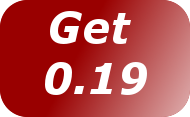
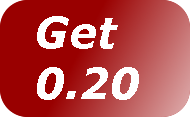
v0.20

Changed region(s): [[0.1842, 0.5128, 0.7895, 0.8718], [0.1842, 0.0769, 0.7105, 0.4359]]

diff --git a/src/site/resources/SampleCodeNarcHtmlReport.html b/src/site/resources/SampleCodeNarcHtmlReport.html
@@ -155,4 +155,4 @@ th {
 
 em, .em {
     font-weight: bold;
-}</style></head><body><img class='logo' src='http://codenarc.sourceforge.net/images/codenarc-logo.png' alt='CodeNarc' align='right'/><h1>CodeNarc Report</h1><div class='metadata'><table><tr><td class='em'>Report title:</td><td>Sample Project</td></tr><tr><td class='em'>Date:</td><td>Jul 14, 2013 4:17:00 PM</td></tr><tr><td class='em'>Generated with:</td><td><a href='http://www.codenarc.org'>CodeNarc v0.19</a></td></tr></table></div><div class='summary'><h2>Summary by Package</h2><table><tr class='tableHeader'><th>Package</th><th>Total Files</th><th>Files with Violations</th><th>Priority 1</th><th>Priority 2</th><th>Priority 3</th></tr><tr><td class='allPackages'>All Packages</td><td class='number'>7</td><td class='number'>5</td><td class='priority1'>-</td><td class='priority2'>10</td><td class='priority3'>3</td></tr><tr><td><a href='#org/codenarc/sample/domain'>org/codenarc/sample/domain</a></td><td class='number'>2</td><td class='number'>1</td><td class='priority1'>-</td><td class='priority2'>2</td><td class='priority3'>2</td></tr><tr><td><a href='#org/codenarc/sample/other'>org/codenarc/sample/other</a></td><td class='number'>1</td><td class='number'>1</td><td class='priority1'>-</td><td class='priority2'>1</td><td class='priority3'>-</td></tr><tr><td><a href='#org/codenarc/sample/service'>org/codenarc/sample/service</a></td><td class='number'>4</td><td class='number'>3</td><td class='priority1'>-</td><td class='priority2'>7</td><td class='priority3'>1</td></tr></table></div><div class='summary'><a name='org/codenarc/sample/domain'> </a><h2 class='packageHeader'>Package: org.codenarc.sample.domain</h2></div><div class='summary'><h3 class='fileHeader'>&#x27A5;&nbsp;SampleDomain.groovy</h3><table border='1'><tr class='tableHeader'><th>Rule Name</th><th>Priority</th><th>Line #</th><th>Source Line / Message</th></tr><tr><td><a href='#EmptyIfStatement'>EmptyIfStatement</a></td><td class='priority2'>2</td><td class='number'>20</td><td><p class='violationInfo'><span class='violationInfoPrefix'>[SRC]</span><span class='sourceCode'>if (name) {</span></p><p class='violationInfo'><span class='violationInfoPrefix'>[MSG]</span><span class='violationMessage'>The if statement is empty</span></p></td></tr><tr><td><a href='#EmptyElseBlock'>EmptyElseBlock</a></td><td class='priority2'>2</td><td class='number'>23</td><td><p class='violationInfo'><span class='violationInfoPrefix'>[SRC]</span><span class='sourceCode'>else {</span></p><p class='violationInfo'><span class='violationInfoPrefix'>[MSG]</span><span class='violationMessage'>The else block is empty</span></p></td></tr><tr><td><a href='#ImportFromSamePackage'>ImportFromSamePackage</a></td><td class='priority3'>3</td><td class='number'>3</td><td><p class='violationInfo'><span class='violationInfoPrefix'>[SRC]</span><span class='sourceCode'>import org.codenarc.sample.domain.OtherDomain</span></p></td></tr><tr><td><a href='#DuplicateImport'>DuplicateImport</a></td><td class='priority3'>3</td><td class='number'>5</td><td><p class='violationInfo'><span class='violationInfoPrefix'>[SRC]</span><span class='sourceCode'>import org.codenarc.sample.other.Other</span></p></td></tr></table></div><div class='summary'><a name='org/codenarc/sample/other'> </a><h2 class='packageHeader'>Package: org.codenarc.sample.other</h2></div><div class='summary'><h3 class='fileHeader'>&#x27A5;&nbsp;Other.groovy</h3><table border='1'><tr class='tableHeader'><th>Rule Name</th><th>Priority</th><th>Line #</th><th>Source Line / Message</th></tr><tr><td><a href='#EmptyClass'>EmptyClass</a></td><td class='priority2'>2</td><td class='number'>6</td><td><p class='violationInfo'><span class='violationInfoPrefix'>[SRC]</span><span class='sourceCode'>class Other {</span></p><p class='violationInfo'><span class='violationInfoPrefix'>[MSG]</span><span class='violationMessage'>Class 'Other' is empty (has no methods, fields or properties). Why would you need a class like this?</span></p></td></tr></table></div><div class='summary'><a name='org/codenarc/sample/service'> </a><h2 class='packageHeader'>Package: org.codenarc.sample.service</h2></div><div class='summary'><h3 class='fileHeader'>&#x27A5;&nbsp;NewService.groovy</h3><table border='1'><tr class='tableHeader'><th>Rule Name</th><th>Priority</th><th>Line #</th><th>Source Line / Message</th></tr><tr><td><a href='#EmptyForStatement'>EmptyForStatement</a></td><td class='priority2'>2</td><td class='number'>12</td><td><p class='violationInfo'><span class='violationInfoPrefix'>[SRC]</span><span class='sourceCode'>for(int i=0; i &lt; values.size(); i++) {</span></p><p class='violationInfo'><span class='violationInfoPrefix'>[MSG]</span><span class='violationMessage'>The for statement is empty</span></p></td></tr><tr><td><a href='#EmptyWhileStatement'>EmptyWhileStatement</a></td><td class='priority2'>2</td><td class='number'>18</td><td><p class='violationInfo'><span class='violationInfoPrefix'>[SRC]</span><span class='sourceCode'>while (!values.empty) {</span></p><p class='violationInfo'><span class='violationInfoPrefix'>[MSG]</span><span class='violationMessage'>The while statement is empty</span></p></td></tr></table></div><div class='summary'><h3 class='fileHeader'>&#x27A5;&nbsp;OtherService.groovy</h3><table border='1'><tr class='tableHeader'><th>Rule Name</th><th>Priority</th><th>Line #</th><th>Source Line / Message</th></tr><tr><td><a href='#EmptyTryBlock'>EmptyTryBlock</a></td><td class='priority2'>2</td><td class='number'>10</td><td><p class='violationInfo'><span class='violationInfoPrefix'>[SRC]</span><span class='sourceCode'>try {</span></p><p class='violationInfo'><span class='violationInfoPrefix'>[MSG]</span><span class='violationMessage'>The try block is empty</span></p></td></tr><tr><td><a href='#EmptyFinallyBlock'>EmptyFinallyBlock</a></td><td class='priority2'>2</td><td class='number'>13</td><td><p class='violationInfo'><span class='violationInfoPrefix'>[SRC]</span><span class='sourceCode'>finally {</span></p><p class='violationInfo'><span class='violationInfoPrefix'>[MSG]</span><span class='violationMessage'>The finally block is empty</span></p></td></tr><tr><td><a href='#ReturnFromFinallyBlock'>ReturnFromFinallyBlock</a></td><td class='priority2'>2</td><td class='number'>24</td><td><p class='violationInfo'><span class='violationInfoPrefix'>[SRC]</span><span class='sourceCode'>return</span></p><p class='violationInfo'><span class='violationInfoPrefix'>[MSG]</span><span class='violationMessage'>finally statements cannot return a value</span></p></td></tr></table></div><div class='summary'><h3 class='fileHeader'>&#x27A5;&nbsp;SampleService.groovy</h3><table border='1'><tr class='tableHeader'><th>Rule Name</th><th>Priority</th><th>Line #</th><th>Source Line / Message</th></tr><tr><td><a href='#EmptyCatchBlock'>EmptyCatchBlock</a></td><td class='priority2'>2</td><td class='number'>19</td><td><p class='violationInfo'><span class='violationInfoPrefix'>[SRC]</span><span class='sourceCode'>} catch(Throwable t) {</span></p><p class='violationInfo'><span class='violationInfoPrefix'>[MSG]</span><span class='violationMessage'>The catch block is empty</span></p></td></tr><tr><td><a href='#ThrowExceptionFromFinallyBlock'>ThrowExceptionFromFinallyBlock</a></td><td class='priority2'>2</td><td class='number'>30</td><td><p class='violationInfo'><span class='violationInfoPrefix'>[SRC]</span><span class='sourceCode'>throw new Exception('bad stuff')</span></p><p class='violationInfo'><span class='violationInfoPrefix'>[MSG]</span><span class='violationMessage'>Throwing an exception from a finally block can hide an underlying error</span></p></td></tr><tr><td><a href='#UnusedImport'>UnusedImport</a></td><td class='priority3'>3</td><td class='number'>3</td><td><p class='violationInfo'><span class='violationInfoPrefix'>[SRC]</span><span class='sourceCode'>import org.codenarc.sample.domain.SampleDomain</span></p><p class='violationInfo'><span class='violationInfoPrefix'>[MSG]</span><span class='violationMessage'>The [org.codenarc.sample.domain.SampleDomain] import is never referenced</span></p></td></tr></table></div><div class='summary'><h2>Rule Descriptions</h2><table border='1'><tr class='tableHeader'><th class='ruleDescriptions'>#</th><th class='ruleDescriptions'>Rule Name</th><th class='ruleDescriptions'>Description</th></tr><tr class='ruleDescriptions'><td><a name='AssertWithinFinallyBlock'></a><span class='ruleIndex'>1</span></td><td class='ruleName priority2'>AssertWithinFinallyBlock</td><td>Checks for <em>assert</em> statements within a <em>finally</em> block. An <em>assert</em> can throw an exception, hiding the original exception, if there is one.</td></tr><tr class='ruleDescriptions'><td><a name='AssignmentInConditional'></a><span class='ruleIndex'>2</span></td><td class='ruleName priority2'>AssignmentInConditional</td><td>An assignment operator (=) was used in a conditional test. This is usually a typo, and the comparison operator (==) was intended.</td></tr><tr class='ruleDescriptions'><td><a name='BigDecimalInstantiation'></a><span class='ruleIndex'>3</span></td><td class='ruleName priority2'>BigDecimalInstantiation</td><td>Checks for calls to the <em>BigDecimal</em> constructors that take a <em>double</em> parameter, which may result in an unexpected <em>BigDecimal</em> value.</td></tr><tr class='ruleDescriptions'><td><a name='BitwiseOperatorInConditional'></a><span class='ruleIndex'>4</span></td><td class='ruleName priority2'>BitwiseOperatorInConditional</td><td>Checks for bitwise operations in conditionals, if you need to do a bitwise operation then it is best practive to extract a temp variable.</td></tr><tr class='ruleDescriptions'><td><a name='BooleanGetBoolean'></a><span class='ruleIndex'>5</span></td><td class='ruleName priority2'>BooleanGetBoolean</td><td>This rule catches usages of java.lang.Boolean.getBoolean(String) which reads a boolean from the System properties. It is often mistakenly used to attempt to read user input or parse a String into a boolean. It is a poor piece of API to use; replace it with System.properties['prop'].</td></tr><tr class='ruleDescriptions'><td><a name='BrokenNullCheck'></a><span class='ruleIndex'>6</span></td><td class='ruleName priority2'>BrokenNullCheck</td><td>Looks for faulty checks for null that can cause a <em>NullPointerException</em>.</td></tr><tr class='ruleDescriptions'><td><a name='BrokenOddnessCheck'></a><span class='ruleIndex'>7</span></td><td class='ruleName priority2'>BrokenOddnessCheck</td><td>The code uses x % 2 == 1 to check to see if a value is odd, but this won't work for negative numbers (e.g., (-5) % 2 == -1). If this code is intending to check for oddness, consider using x &amp; 1 == 1, or x % 2 != 0.</td></tr><tr class='ruleDescriptions'><td><a name='ClassForName'></a><span class='ruleIndex'>8</span></td><td class='ruleName priority2'>ClassForName</td><td>Using Class.forName(...) is a common way to add dynamic behavior to a system. However, using this method can cause resource leaks because the classes can be pinned in memory for long periods of time.</td></tr><tr class='ruleDescriptions'><td><a name='ComparisonOfTwoConstants'></a><span class='ruleIndex'>9</span></td><td class='ruleName priority2'>ComparisonOfTwoConstants</td><td>Checks for expressions where a comparison operator or <em>equals()</em> or <em>compareTo()</em> is used to compare two constants to each other or two literals that contain only constant values., e.g.: <em>23 == 67, Boolean.FALSE != false, 0.17 &lt;= 0.99, "abc" &gt; "ddd", [a:1] &lt;=&gt; [a:2], [1,2].equals([3,4]) or [a:false, b:true].compareTo(['a':34.5, b:Boolean.TRUE]</em>.</td></tr><tr class='ruleDescriptions'><td><a name='ComparisonWithSelf'></a><span class='ruleIndex'>10</span></td><td class='ruleName priority2'>ComparisonWithSelf</td><td>Checks for expressions where a comparison operator or <em>equals()</em> or <em>compareTo()</em> is used to compare a variable to itself, e.g.: <em>x == x, x != x, x &lt;=&gt; x, x &lt; x, x =&gt;= x, x.equals(x) or x.compareTo(x)</em>, where <em>x</em> is a variable.</td></tr><tr class='ruleDescriptions'><td><a name='ConstantAssertExpression'></a><span class='ruleIndex'>11</span></td><td class='ruleName priority3'>ConstantAssertExpression</td><td>Checks for <em>assert</em> statements where the assert boolean condition expression is a constant or literal value.</td></tr><tr class='ruleDescriptions'><td><a name='ConstantIfExpression'></a><span class='ruleIndex'>12</span></td><td class='ruleName priority2'>ConstantIfExpression</td><td>Checks for <em>if</em> statements with a constant value for the if expression, such as <em>true</em>, <em>false</em>, <em>null</em>, or a literal constant value.</td></tr><tr class='ruleDescriptions'><td><a name='ConstantTernaryExpression'></a><span class='ruleIndex'>13</span></td><td class='ruleName priority2'>ConstantTernaryExpression</td><td>Checks for ternary expressions with a constant value for the boolean expression, such as <em>true</em>, <em>false</em>, <em>null</em>, or a literal constant value.</td></tr><tr class='ruleDescriptions'><td><a name='DeadCode'></a><span class='ruleIndex'>14</span></td><td class='ruleName priority2'>DeadCode</td><td>Dead code appears after a return statement or an exception is thrown. If code appears after one of these statements then it will never be executed and can be safely deleted.</td></tr><tr class='ruleDescriptions'><td><a name='DoubleNegative'></a><span class='ruleIndex'>15</span></td><td class='ruleName priority2'>DoubleNegative</td><td>There is no point in using a double negative, it is always positive. For instance <em>!!x</em> can always be simplified to x. And <em>!(!x)</em> can as well.</td></tr><tr class='ruleDescriptions'><td><a name='DuplicateCaseStatement'></a><span class='ruleIndex'>16</span></td><td class='ruleName priority2'>DuplicateCaseStatement</td><td>Check for duplicate <em>case</em> statements in a <em>switch</em> block, such as two equal integers or strings.</td></tr><tr class='ruleDescriptions'><td><a name='DuplicateImport'></a><span class='ruleIndex'>17</span></td><td class='ruleName priority3'>DuplicateImport</td><td>Duplicate import statements are unnecessary.</td></tr><tr class='ruleDescriptions'><td><a name='DuplicateMapKey'></a><span class='ruleIndex'>18</span></td><td class='ruleName priority2'>DuplicateMapKey</td><td>A map literal is created with duplicated key. The map entry will be overwritten.</td></tr><tr class='ruleDescriptions'><td><a name='DuplicateSetValue'></a><span class='ruleIndex'>19</span></td><td class='ruleName priority2'>DuplicateSetValue</td><td>A Set literal is created with duplicate constant value. A set cannot contain two elements with the same value.</td></tr><tr class='ruleDescriptions'><td><a name='EmptyCatchBlock'></a><span class='ruleIndex'>20</span></td><td class='ruleName priority2'>EmptyCatchBlock</td><td>In most cases, exceptions should not be caught and ignored (swallowed).</td></tr><tr class='ruleDescriptions'><td><a name='EmptyClass'></a><span class='ruleIndex'>21</span></td><td class='ruleName priority2'>EmptyClass</td><td>Reports classes without methods, fields or properties. Why would you need a class like this?</td></tr><tr class='ruleDescriptions'><td><a name='EmptyElseBlock'></a><span class='ruleIndex'>22</span></td><td class='ruleName priority2'>EmptyElseBlock</td><td>Empty <em>else</em> blocks are confusing and serve no purpose.</td></tr><tr class='ruleDescriptions'><td><a name='EmptyFinallyBlock'></a><span class='ruleIndex'>23</span></td><td class='ruleName priority2'>EmptyFinallyBlock</td><td>Empty <em>finally</em> blocks are confusing and serve no purpose.</td></tr><tr class='ruleDescriptions'><td><a name='EmptyForStatement'></a><span class='ruleIndex'>24</span></td><td class='ruleName priority2'>EmptyForStatement</td><td>Empty <em>for</em> statements are confusing and serve no purpose.</td></tr><tr class='ruleDescriptions'><td><a name='EmptyIfStatement'></a><span class='ruleIndex'>25</span></td><td class='ruleName priority2'>EmptyIfStatement</td><td>Empty <em>if</em> statements are confusing and serve no purpose.</td></tr><tr class='ruleDescriptions'><td><a name='EmptyInstanceInitializer'></a><span class='ruleIndex'>26</span></td><td class='ruleName priority2'>EmptyInstanceInitializer</td><td>An empty class instance initializer was found. It is safe to remove it.</td></tr><tr class='ruleDescriptions'><td><a name='EmptyMethod'></a><span class='ruleIndex'>27</span></td><td class='ruleName priority2'>EmptyMethod</td><td>A method was found without an implementation. If the method is overriding or implementing a parent method, then mark it with the @Override annotation.</td></tr><tr class='ruleDescriptions'><td><a name='EmptyStaticInitializer'></a><span class='ruleIndex'>28</span></td><td class='ruleName priority2'>EmptyStaticInitializer</td><td>An empty static initializer was found. It is safe to remove it.</td></tr><tr class='ruleDescriptions'><td><a name='EmptySwitchStatement'></a><span class='ruleIndex'>29</span></td><td class='ruleName priority2'>EmptySwitchStatement</td><td>Empty <em>switch</em> statements are confusing and serve no purpose.</td></tr><tr class='ruleDescriptions'><td><a name='EmptySynchronizedStatement'></a><span class='ruleIndex'>30</span></td><td class='ruleName priority2'>EmptySynchronizedStatement</td><td>Empty <em>synchronized</em> statements are confusing and serve no purpose.</td></tr><tr class='ruleDescriptions'><td><a name='EmptyTryBlock'></a><span class='ruleIndex'>31</span></td><td class='ruleName priority2'>EmptyTryBlock</td><td>Empty <em>try</em> blocks are confusing and serve no purpose.</td></tr><tr class='ruleDescriptions'><td><a name='EmptyWhileStatement'></a><span class='ruleIndex'>32</span></td><td class='ruleName priority2'>EmptyWhileStatement</td><td>Empty <em>while</em> statements are confusing and serve no purpose.</td></tr><tr class='ruleDescriptions'><td><a name='EqualsAndHashCode'></a><span class='ruleIndex'>33</span></td><td class='ruleName priority2'>EqualsAndHashCode</td><td>If either the <em>boolean equals(Object)</em> or the <em>int hashCode()</em> methods are overridden within a class, then both must be overridden.</td></tr><tr class='ruleDescriptions'><td><a name='EqualsOverloaded'></a><span class='ruleIndex'>34</span></td><td class='ruleName priority2'>EqualsOverloaded</td><td>The class has an equals method, but the parameter of the method is not of type Object. It is not overriding equals but instead overloading it.</td></tr><tr class='ruleDescriptions'><td><a name='ExplicitGarbageCollection'></a><span class='ruleIndex'>35</span></td><td class='ruleName priority2'>ExplicitGarbageCollection</td><td>Calls to System.gc(), Runtime.getRuntime().gc(), and System.runFinalization() are not advised. Code should have the same behavior whether the garbage collection is disabled using the option -Xdisableexplicitgc or not. Moreover, "modern" jvms do a very good job handling garbage collections. If memory usage issues unrelated to memory leaks develop within an application, it should be dealt with JVM options rather than within the code itself.</td></tr><tr class='ruleDescriptions'><td><a name='ForLoopShouldBeWhileLoop'></a><span class='ruleIndex'>36</span></td><td class='ruleName priority3'>ForLoopShouldBeWhileLoop</td><td>A for loop without an init and update statement can be simplified to a while loop.</td></tr><tr class='ruleDescriptions'><td><a name='HardCodedWindowsFileSeparator'></a><span class='ruleIndex'>37</span></td><td class='ruleName priority2'>HardCodedWindowsFileSeparator</td><td>This rule finds usages of a Windows file separator within the constructor call of a File object. It is better to use the Unix file separator or use the File.separator constant.</td></tr><tr class='ruleDescriptions'><td><a name='HardCodedWindowsRootDirectory'></a><span class='ruleIndex'>38</span></td><td class='ruleName priority2'>HardCodedWindowsRootDirectory</td><td>This rule find cases where a <em>File</em> object is constructed with a windows-based path. This is not portable, and using the <em>File.listRoots()</em> method is a better alternative.</td></tr><tr class='ruleDescriptions'><td><a name='ImportFromSamePackage'></a><span class='ruleIndex'>39</span></td><td class='ruleName priority3'>ImportFromSamePackage</td><td>An import of a class that is within the same package is unnecessary.</td></tr><tr class='ruleDescriptions'><td><a name='ImportFromSunPackages'></a><span class='ruleIndex'>40</span></td><td class='ruleName priority2'>ImportFromSunPackages</td><td>Avoid importing anything from the 'sun.*' packages. These packages are not portable and are likely to change.</td></tr><tr class='ruleDescriptions'><td><a name='IntegerGetInteger'></a><span class='ruleIndex'>41</span></td><td class='ruleName priority2'>IntegerGetInteger</td><td>This rule catches usages of java.lang.Integer.getInteger(String, ...) which reads an Integer from the System properties. It is often mistakenly used to attempt to read user input or parse a String into an Integer. It is a poor piece of API to use; replace it with System.properties['prop'].</td></tr><tr class='ruleDescriptions'><td><a name='MisorderedStaticImports'></a><span class='ruleIndex'>42</span></td><td class='ruleName priority3'>MisorderedStaticImports</td><td>Static imports should never be declared after nonstatic imports.</td></tr><tr class='ruleDescriptions'><td><a name='RandomDoubleCoercedToZero'></a><span class='ruleIndex'>43</span></td><td class='ruleName priority2'>RandomDoubleCoercedToZero</td><td>The Math.random() method returns a double result greater than or equal to 0.0 and less than 1.0. If you coerce this result into an Integer or int, then it is coerced to zero. Casting the result to int, or assigning it to an int field is probably a bug.</td></tr><tr class='ruleDescriptions'><td><a name='RemoveAllOnSelf'></a><span class='ruleIndex'>44</span></td><td class='ruleName priority2'>RemoveAllOnSelf</td><td>Don't use <em>removeAll</em> to clear a collection. If you want to remove all elements from a collection c, use c.clear, not c.removeAll(c). Calling <em>c.removeAll(c)</em> to clear a collection is less clear, susceptible to errors from typos, less efficient and for some collections, might throw a <em>ConcurrentModificationException</em>.</td></tr><tr class='ruleDescriptions'><td><a name='ReturnFromFinallyBlock'></a><span class='ruleIndex'>45</span></td><td class='ruleName priority2'>ReturnFromFinallyBlock</td><td>Returning from a <em>finally</em> block is confusing and can hide the original exception.</td></tr><tr class='ruleDescriptions'><td><a name='ThrowExceptionFromFinallyBlock'></a><span class='ruleIndex'>46</span></td><td class='ruleName priority2'>ThrowExceptionFromFinallyBlock</td><td>Throwing an exception from a <em>finally</em> block is confusing and can hide the original exception.</td></tr><tr class='ruleDescriptions'><td><a name='UnnecessaryGroovyImport'></a><span class='ruleIndex'>47</span></td><td class='ruleName priority3'>UnnecessaryGroovyImport</td><td>A Groovy file does not need to include an import for classes from <em>java.lang</em>, <em>java.util</em>, <em>java.io</em>, <em>java.net</em>, <em>groovy.lang</em> and <em>groovy.util</em>, as well as the classes <em>java.math.BigDecimal</em> and <em>java.math.BigInteger</em>.</td></tr><tr class='ruleDescriptions'><td><a name='UnusedImport'></a><span class='ruleIndex'>48</span></td><td class='ruleName priority3'>UnusedImport</td><td>Imports for a class that is never referenced within the source file is unnecessary.</td></tr></table></div></body></html>
+}</style></head><body><img class='logo' src='http://codenarc.sourceforge.net/images/codenarc-logo.png' alt='CodeNarc' align='right'/><h1>CodeNarc Report</h1><div class='metadata'><table><tr><td class='em'>Report title:</td><td>Sample Project</td></tr><tr><td class='em'>Date:</td><td>Dec 17, 2013 6:16:36 PM</td></tr><tr><td class='em'>Generated with:</td><td><a href='http://www.codenarc.org'>CodeNarc v0.20</a></td></tr></table></div><div class='summary'><h2>Summary by Package</h2><table><tr class='tableHeader'><th>Package</th><th>Total Files</th><th>Files with Violations</th><th>Priority 1</th><th>Priority 2</th><th>Priority 3</th></tr><tr><td class='allPackages'>All Packages</td><td class='number'>10</td><td class='number'>5</td><td class='priority1'>-</td><td class='priority2'>-</td><td class='priority3'>7</td></tr><tr><td><a href='#&lt;Root&gt;'>&lt;Root&gt;</a></td><td class='number'>7</td><td class='number'>2</td><td class='priority1'>-</td><td class='priority2'>-</td><td class='priority3'>2</td></tr><tr><td><a href='#io'>io</a></td><td class='number'>3</td><td class='number'>3</td><td class='priority1'>-</td><td class='priority2'>-</td><td class='priority3'>5</td></tr></table></div><div class='summary'><a name='&lt;Root&gt;'> </a><h2 class='packageHeader'>Package: &lt;Root&gt;</h2></div><div class='summary'><h3 class='fileHeader'>&#x27A5;&nbsp;PropertyUtilTest.groovy</h3><table border='1'><tr class='tableHeader'><th>Rule Name</th><th>Priority</th><th>Line #</th><th>Source Line / Message</th></tr><tr><td><a href='#MisorderedStaticImports'>MisorderedStaticImports</a></td><td class='priority3'>3</td><td class='number'>22</td><td><p class='violationInfo'><span class='violationInfoPrefix'>[SRC]</span><span class='sourceCode'>import static org.codenarc.test.TestUtil.shouldFail</span></p><p class='violationInfo'><span class='violationInfoPrefix'>[MSG]</span><span class='violationMessage'>Static imports should appear before normal imports</span></p></td></tr></table></div><div class='summary'><h3 class='fileHeader'>&#x27A5;&nbsp;SourceCodeUtilTest.groovy</h3><table border='1'><tr class='tableHeader'><th>Rule Name</th><th>Priority</th><th>Line #</th><th>Source Line / Message</th></tr><tr><td><a href='#MisorderedStaticImports'>MisorderedStaticImports</a></td><td class='priority3'>3</td><td class='number'>27</td><td><p class='violationInfo'><span class='violationInfoPrefix'>[SRC]</span><span class='sourceCode'>import static org.codenarc.test.TestUtil.shouldFail</span></p><p class='violationInfo'><span class='violationInfoPrefix'>[MSG]</span><span class='violationMessage'>Static imports should appear before normal imports</span></p></td></tr></table></div><div class='summary'><a name='io'> </a><h2 class='packageHeader'>Package: io</h2></div><div class='summary'><h3 class='fileHeader'>&#x27A5;&nbsp;ClassPathResourceTest.groovy</h3><table border='1'><tr class='tableHeader'><th>Rule Name</th><th>Priority</th><th>Line #</th><th>Source Line / Message</th></tr><tr><td><a href='#MisorderedStaticImports'>MisorderedStaticImports</a></td><td class='priority3'>3</td><td class='number'>21</td><td><p class='violationInfo'><span class='violationInfoPrefix'>[SRC]</span><span class='sourceCode'>import static org.codenarc.test.TestUtil.shouldFail</span></p><p class='violationInfo'><span class='violationInfoPrefix'>[MSG]</span><span class='violationMessage'>Static imports should appear before normal imports</span></p></td></tr><tr><td><a href='#MisorderedStaticImports'>MisorderedStaticImports</a></td><td class='priority3'>3</td><td class='number'>22</td><td><p class='violationInfo'><span class='violationInfoPrefix'>[SRC]</span><span class='sourceCode'>import static org.codenarc.test.TestUtil.shouldFailWithM..geContaining</span></p><p class='violationInfo'><span class='violationInfoPrefix'>[MSG]</span><span class='violationMessage'>Static imports should appear before normal imports</span></p></td></tr></table></div><div class='summary'><h3 class='fileHeader'>&#x27A5;&nbsp;DefaultResourceFactoryTest.groovy</h3><table border='1'><tr class='tableHeader'><th>Rule Name</th><th>Priority</th><th>Line #</th><th>Source Line / Message</th></tr><tr><td><a href='#MisorderedStaticImports'>MisorderedStaticImports</a></td><td class='priority3'>3</td><td class='number'>22</td><td><p class='violationInfo'><span class='violationInfoPrefix'>[SRC]</span><span class='sourceCode'>import static org.codenarc.test.TestUtil.shouldFailWithM..geContaining</span></p><p class='violationInfo'><span class='violationInfoPrefix'>[MSG]</span><span class='violationMessage'>Static imports should appear before normal imports</span></p></td></tr></table></div><div class='summary'><h3 class='fileHeader'>&#x27A5;&nbsp;UrlResourceTest.groovy</h3><table border='1'><tr class='tableHeader'><th>Rule Name</th><th>Priority</th><th>Line #</th><th>Source Line / Message</th></tr><tr><td><a href='#MisorderedStaticImports'>MisorderedStaticImports</a></td><td class='priority3'>3</td><td class='number'>21</td><td><p class='violationInfo'><span class='violationInfoPrefix'>[SRC]</span><span class='sourceCode'>import static org.codenarc.test.TestUtil.shouldFail</span></p><p class='violationInfo'><span class='violationInfoPrefix'>[MSG]</span><span class='violationMessage'>Static imports should appear before normal imports</span></p></td></tr><tr><td><a href='#MisorderedStaticImports'>MisorderedStaticImports</a></td><td class='priority3'>3</td><td class='number'>22</td><td><p class='violationInfo'><span class='violationInfoPrefix'>[SRC]</span><span class='sourceCode'>import static org.codenarc.test.TestUtil.shouldFailWithM..geContaining</span></p><p class='violationInfo'><span class='violationInfoPrefix'>[MSG]</span><span class='violationMessage'>Static imports should appear before normal imports</span></p></td></tr></table></div><div class='summary'><h2>Rule Descriptions</h2><table border='1'><tr class='tableHeader'><th class='ruleDescriptions'>#</th><th class='ruleDescriptions'>Rule Name</th><th class='ruleDescriptions'>Description</th></tr><tr class='ruleDescriptions'><td><a name='AssertWithinFinallyBlock'></a><span class='ruleIndex'>1</span></td><td class='ruleName priority2'>AssertWithinFinallyBlock</td><td>Checks for <em>assert</em> statements within a <em>finally</em> block. An <em>assert</em> can throw an exception, hiding the original exception, if there is one.</td></tr><tr class='ruleDescriptions'><td><a name='AssignmentInConditional'></a><span class='ruleIndex'>2</span></td><td class='ruleName priority2'>AssignmentInConditional</td><td>An assignment operator (=) was used in a conditional test. This is usually a typo, and the comparison operator (==) was intended.</td></tr><tr class='ruleDescriptions'><td><a name='BigDecimalInstantiation'></a><span class='ruleIndex'>3</span></td><td class='ruleName priority2'>BigDecimalInstantiation</td><td>Checks for calls to the <em>BigDecimal</em> constructors that take a <em>double</em> parameter, which may result in an unexpected <em>BigDecimal</em> value.</td></tr><tr class='ruleDescriptions'><td><a name='BitwiseOperatorInConditional'></a><span class='ruleIndex'>4</span></td><td class='ruleName priority2'>BitwiseOperatorInConditional</td><td>Checks for bitwise operations in conditionals, if you need to do a bitwise operation then it is best practive to extract a temp variable.</td></tr><tr class='ruleDescriptions'><td><a name='BooleanGetBoolean'></a><span class='ruleIndex'>5</span></td><td class='ruleName priority2'>BooleanGetBoolean</td><td>This rule catches usages of java.lang.Boolean.getBoolean(String) which reads a boolean from the System properties. It is often mistakenly used to attempt to read user input or parse a String into a boolean. It is a poor piece of API to use; replace it with System.properties['prop'].</td></tr><tr class='ruleDescriptions'><td><a name='BrokenNullCheck'></a><span class='ruleIndex'>6</span></td><td class='ruleName priority2'>BrokenNullCheck</td><td>Looks for faulty checks for null that can cause a <em>NullPointerException</em>.</td></tr><tr class='ruleDescriptions'><td><a name='BrokenOddnessCheck'></a><span class='ruleIndex'>7</span></td><td class='ruleName priority2'>BrokenOddnessCheck</td><td>The code uses x % 2 == 1 to check to see if a value is odd, but this won't work for negative numbers (e.g., (-5) % 2 == -1). If this code is intending to check for oddness, consider using x &amp; 1 == 1, or x % 2 != 0.</td></tr><tr class='ruleDescriptions'><td><a name='ClassForName'></a><span class='ruleIndex'>8</span></td><td class='ruleName priority2'>ClassForName</td><td>Using Class.forName(...) is a common way to add dynamic behavior to a system. However, using this method can cause resource leaks because the classes can be pinned in memory for long periods of time.</td></tr><tr class='ruleDescriptions'><td><a name='ComparisonOfTwoConstants'></a><span class='ruleIndex'>9</span></td><td class='ruleName priority2'>ComparisonOfTwoConstants</td><td>Checks for expressions where a comparison operator or <em>equals()</em> or <em>compareTo()</em> is used to compare two constants to each other or two literals that contain only constant values., e.g.: <em>23 == 67, Boolean.FALSE != false, 0.17 &lt;= 0.99, "abc" &gt; "ddd", [a:1] &lt;=&gt; [a:2], [1,2].equals([3,4]) or [a:false, b:true].compareTo(['a':34.5, b:Boolean.TRUE]</em>.</td></tr><tr class='ruleDescriptions'><td><a name='ComparisonWithSelf'></a><span class='ruleIndex'>10</span></td><td class='ruleName priority2'>ComparisonWithSelf</td><td>Checks for expressions where a comparison operator or <em>equals()</em> or <em>compareTo()</em> is used to compare a variable to itself, e.g.: <em>x == x, x != x, x &lt;=&gt; x, x &lt; x, x =&gt;= x, x.equals(x) or x.compareTo(x)</em>, where <em>x</em> is a variable.</td></tr><tr class='ruleDescriptions'><td><a name='ConstantAssertExpression'></a><span class='ruleIndex'>11</span></td><td class='ruleName priority3'>ConstantAssertExpression</td><td>Checks for <em>assert</em> statements where the assert boolean condition expression is a constant or literal value.</td></tr><tr class='ruleDescriptions'><td><a name='ConstantIfExpression'></a><span class='ruleIndex'>12</span></td><td class='ruleName priority2'>ConstantIfExpression</td><td>Checks for <em>if</em> statements with a constant value for the if expression, such as <em>true</em>, <em>false</em>, <em>null</em>, or a literal constant value.</td></tr><tr class='ruleDescriptions'><td><a name='ConstantTernaryExpression'></a><span class='ruleIndex'>13</span></td><td class='ruleName priority2'>ConstantTernaryExpression</td><td>Checks for ternary expressions with a constant value for the boolean expression, such as <em>true</em>, <em>false</em>, <em>null</em>, or a literal constant value.</td></tr><tr class='ruleDescriptions'><td><a name='DeadCode'></a><span class='ruleIndex'>14</span></td><td class='ruleName priority2'>DeadCode</td><td>Dead code appears after a return statement or an exception is thrown. If code appears after one of these statements then it will never be executed and can be safely deleted.</td></tr><tr class='ruleDescriptions'><td><a name='DoubleNegative'></a><span class='ruleIndex'>15</span></td><td class='ruleName priority2'>DoubleNegative</td><td>There is no point in using a double negative, it is always positive. For instance <em>!!x</em> can always be simplified to x. And <em>!(!x)</em> can as well.</td></tr><tr class='ruleDescriptions'><td><a name='DuplicateCaseStatement'></a><span class='ruleIndex'>16</span></td><td class='ruleName priority2'>DuplicateCaseStatement</td><td>Check for duplicate <em>case</em> statements in a <em>switch</em> block, such as two equal integers or strings.</td></tr><tr class='ruleDescriptions'><td><a name='DuplicateImport'></a><span class='ruleIndex'>17</span></td><td class='ruleName priority3'>DuplicateImport</td><td>Duplicate import statements are unnecessary.</td></tr><tr class='ruleDescriptions'><td><a name='DuplicateMapKey'></a><span class='ruleIndex'>18</span></td><td class='ruleName priority2'>DuplicateMapKey</td><td>A map literal is created with duplicated key. The map entry will be overwritten.</td></tr><tr class='ruleDescriptions'><td><a name='DuplicateSetValue'></a><span class='ruleIndex'>19</span></td><td class='ruleName priority2'>DuplicateSetValue</td><td>A Set literal is created with duplicate constant value. A set cannot contain two elements with the same value.</td></tr><tr class='ruleDescriptions'><td><a name='EmptyCatchBlock'></a><span class='ruleIndex'>20</span></td><td class='ruleName priority2'>EmptyCatchBlock</td><td>In most cases, exceptions should not be caught and ignored (swallowed).</td></tr><tr class='ruleDescriptions'><td><a name='EmptyClass'></a><span class='ruleIndex'>21</span></td><td class='ruleName priority2'>EmptyClass</td><td>Reports classes without methods, fields or properties. Why would you need a class like this?</td></tr><tr class='ruleDescriptions'><td><a name='EmptyElseBlock'></a><span class='ruleIndex'>22</span></td><td class='ruleName priority2'>EmptyElseBlock</td><td>Empty <em>else</em> blocks are confusing and serve no purpose.</td></tr><tr class='ruleDescriptions'><td><a name='EmptyFinallyBlock'></a><span class='ruleIndex'>23</span></td><td class='ruleName priority2'>EmptyFinallyBlock</td><td>Empty <em>finally</em> blocks are confusing and serve no purpose.</td></tr><tr class='ruleDescriptions'><td><a name='EmptyForStatement'></a><span class='ruleIndex'>24</span></td><td class='ruleName priority2'>EmptyForStatement</td><td>Empty <em>for</em> statements are confusing and serve no purpose.</td></tr><tr class='ruleDescriptions'><td><a name='EmptyIfStatement'></a><span class='ruleIndex'>25</span></td><td class='ruleName priority2'>EmptyIfStatement</td><td>Empty <em>if</em> statements are confusing and serve no purpose.</td></tr><tr class='ruleDescriptions'><td><a name='EmptyInstanceInitializer'></a><span class='ruleIndex'>26</span></td><td class='ruleName priority2'>EmptyInstanceInitializer</td><td>An empty class instance initializer was found. It is safe to remove it.</td></tr><tr class='ruleDescriptions'><td><a name='EmptyMethod'></a><span class='ruleIndex'>27</span></td><td class='ruleName priority2'>EmptyMethod</td><td>A method was found without an implementation. If the method is overriding or implementing a parent method, then mark it with the @Override annotation.</td></tr><tr class='ruleDescriptions'><td><a name='EmptyStaticInitializer'></a><span class='ruleIndex'>28</span></td><td class='ruleName priority2'>EmptyStaticInitializer</td><td>An empty static initializer was found. It is safe to remove it.</td></tr><tr class='ruleDescriptions'><td><a name='EmptySwitchStatement'></a><span class='ruleIndex'>29</span></td><td class='ruleName priority2'>EmptySwitchStatement</td><td>Empty <em>switch</em> statements are confusing and serve no purpose.</td></tr><tr class='ruleDescriptions'><td><a name='EmptySynchronizedStatement'></a><span class='ruleIndex'>30</span></td><td class='ruleName priority2'>EmptySynchronizedStatement</td><td>Empty <em>synchronized</em> statements are confusing and serve no purpose.</td></tr><tr class='ruleDescriptions'><td><a name='EmptyTryBlock'></a><span class='ruleIndex'>31</span></td><td class='ruleName priority2'>EmptyTryBlock</td><td>Empty <em>try</em> blocks are confusing and serve no purpose.</td></tr><tr class='ruleDescriptions'><td><a name='EmptyWhileStatement'></a><span class='ruleIndex'>32</span></td><td class='ruleName priority2'>EmptyWhileStatement</td><td>Empty <em>while</em> statements are confusing and serve no purpose.</td></tr><tr class='ruleDescriptions'><td><a name='EqualsAndHashCode'></a><span class='ruleIndex'>33</span></td><td class='ruleName priority2'>EqualsAndHashCode</td><td>If either the <em>boolean equals(Object)</em> or the <em>int hashCode()</em> methods are overridden within a class, then both must be overridden.</td></tr><tr class='ruleDescriptions'><td><a name='EqualsOverloaded'></a><span class='ruleIndex'>34</span></td><td class='ruleName priority2'>EqualsOverloaded</td><td>The class has an equals method, but the parameter of the method is not of type Object. It is not overriding equals but instead overloading it.</td></tr><tr class='ruleDescriptions'><td><a name='ExplicitGarbageCollection'></a><span class='ruleIndex'>35</span></td><td class='ruleName priority2'>ExplicitGarbageCollection</td><td>Calls to System.gc(), Runtime.getRuntime().gc(), and System.runFinalization() are not advised. Code should have the same behavior whether the garbage collection is disabled using the option -Xdisableexplicitgc or not. Moreover, "modern" jvms do a very good job handling garbage collections. If memory usage issues unrelated to memory leaks develop within an application, it should be dealt with JVM options rather than within the code itself.</td></tr><tr class='ruleDescriptions'><td><a name='ForLoopShouldBeWhileLoop'></a><span class='ruleIndex'>36</span></td><td class='ruleName priority3'>ForLoopShouldBeWhileLoop</td><td>A for loop without an init and update statement can be simplified to a while loop.</td></tr><tr class='ruleDescriptions'><td><a name='HardCodedWindowsFileSeparator'></a><span class='ruleIndex'>37</span></td><td class='ruleName priority2'>HardCodedWindowsFileSeparator</td><td>This rule finds usages of a Windows file separator within the constructor call of a File object. It is better to use the Unix file separator or use the File.separator constant.</td></tr><tr class='ruleDescriptions'><td><a name='HardCodedWindowsRootDirectory'></a><span class='ruleIndex'>38</span></td><td class='ruleName priority2'>HardCodedWindowsRootDirectory</td><td>This rule find cases where a <em>File</em> object is constructed with a windows-based path. This is not portable, and using the <em>File.listRoots()</em> method is a better alternative.</td></tr><tr class='ruleDescriptions'><td><a name='ImportFromSamePackage'></a><span class='ruleIndex'>39</span></td><td class='ruleName priority3'>ImportFromSamePackage</td><td>An import of a class that is within the same package is unnecessary.</td></tr><tr class='ruleDescriptions'><td><a name='ImportFromSunPackages'></a><span class='ruleIndex'>40</span></td><td class='ruleName priority2'>ImportFromSunPackages</td><td>Avoid importing anything from the 'sun.*' packages. These packages are not portable and are likely to change.</td></tr><tr class='ruleDescriptions'><td><a name='IntegerGetInteger'></a><span class='ruleIndex'>41</span></td><td class='ruleName priority2'>IntegerGetInteger</td><td>This rule catches usages of java.lang.Integer.getInteger(String, ...) which reads an Integer from the System properties. It is often mistakenly used to attempt to read user input or parse a String into an Integer. It is a poor piece of API to use; replace it with System.properties['prop'].</td></tr><tr class='ruleDescriptions'><td><a name='MisorderedStaticImports'></a><span class='ruleIndex'>42</span></td><td class='ruleName priority3'>MisorderedStaticImports</td><td>Static imports should never be declared after nonstatic imports.</td></tr><tr class='ruleDescriptions'><td><a name='RandomDoubleCoercedToZero'></a><span class='ruleIndex'>43</span></td><td class='ruleName priority2'>RandomDoubleCoercedToZero</td><td>The Math.random() method returns a double result greater than or equal to 0.0 and less than 1.0. If you coerce this result into an Integer or int, then it is coerced to zero. Casting the result to int, or assigning it to an int field is probably a bug.</td></tr><tr class='ruleDescriptions'><td><a name='RemoveAllOnSelf'></a><span class='ruleIndex'>44</span></td><td class='ruleName priority2'>RemoveAllOnSelf</td><td>Don't use <em>removeAll</em> to clear a collection. If you want to remove all elements from a collection c, use c.clear, not c.removeAll(c). Calling <em>c.removeAll(c)</em> to clear a collection is less clear, susceptible to errors from typos, less efficient and for some collections, might throw a <em>ConcurrentModificationException</em>.</td></tr><tr class='ruleDescriptions'><td><a name='ReturnFromFinallyBlock'></a><span class='ruleIndex'>45</span></td><td class='ruleName priority2'>ReturnFromFinallyBlock</td><td>Returning from a <em>finally</em> block is confusing and can hide the original exception.</td></tr><tr class='ruleDescriptions'><td><a name='ThrowExceptionFromFinallyBlock'></a><span class='ruleIndex'>46</span></td><td class='ruleName priority2'>ThrowExceptionFromFinallyBlock</td><td>Throwing an exception from a <em>finally</em> block is confusing and can hide the original exception.</td></tr><tr class='ruleDescriptions'><td><a name='UnnecessaryGroovyImport'></a><span class='ruleIndex'>47</span></td><td class='ruleName priority3'>UnnecessaryGroovyImport</td><td>A Groovy file does not need to include an import for classes from <em>java.lang</em>, <em>java.util</em>, <em>java.io</em>, <em>java.net</em>, <em>groovy.lang</em> and <em>groovy.util</em>, as well as the classes <em>java.math.BigDecimal</em> and <em>java.math.BigInteger</em>.</td></tr><tr class='ruleDescriptions'><td><a name='UnusedImport'></a><span class='ruleIndex'>48</span></td><td class='ruleName priority3'>UnusedImport</td><td>Imports for a class that is never referenced within the source file is unnecessary.</td></tr></table></div></body></html>
